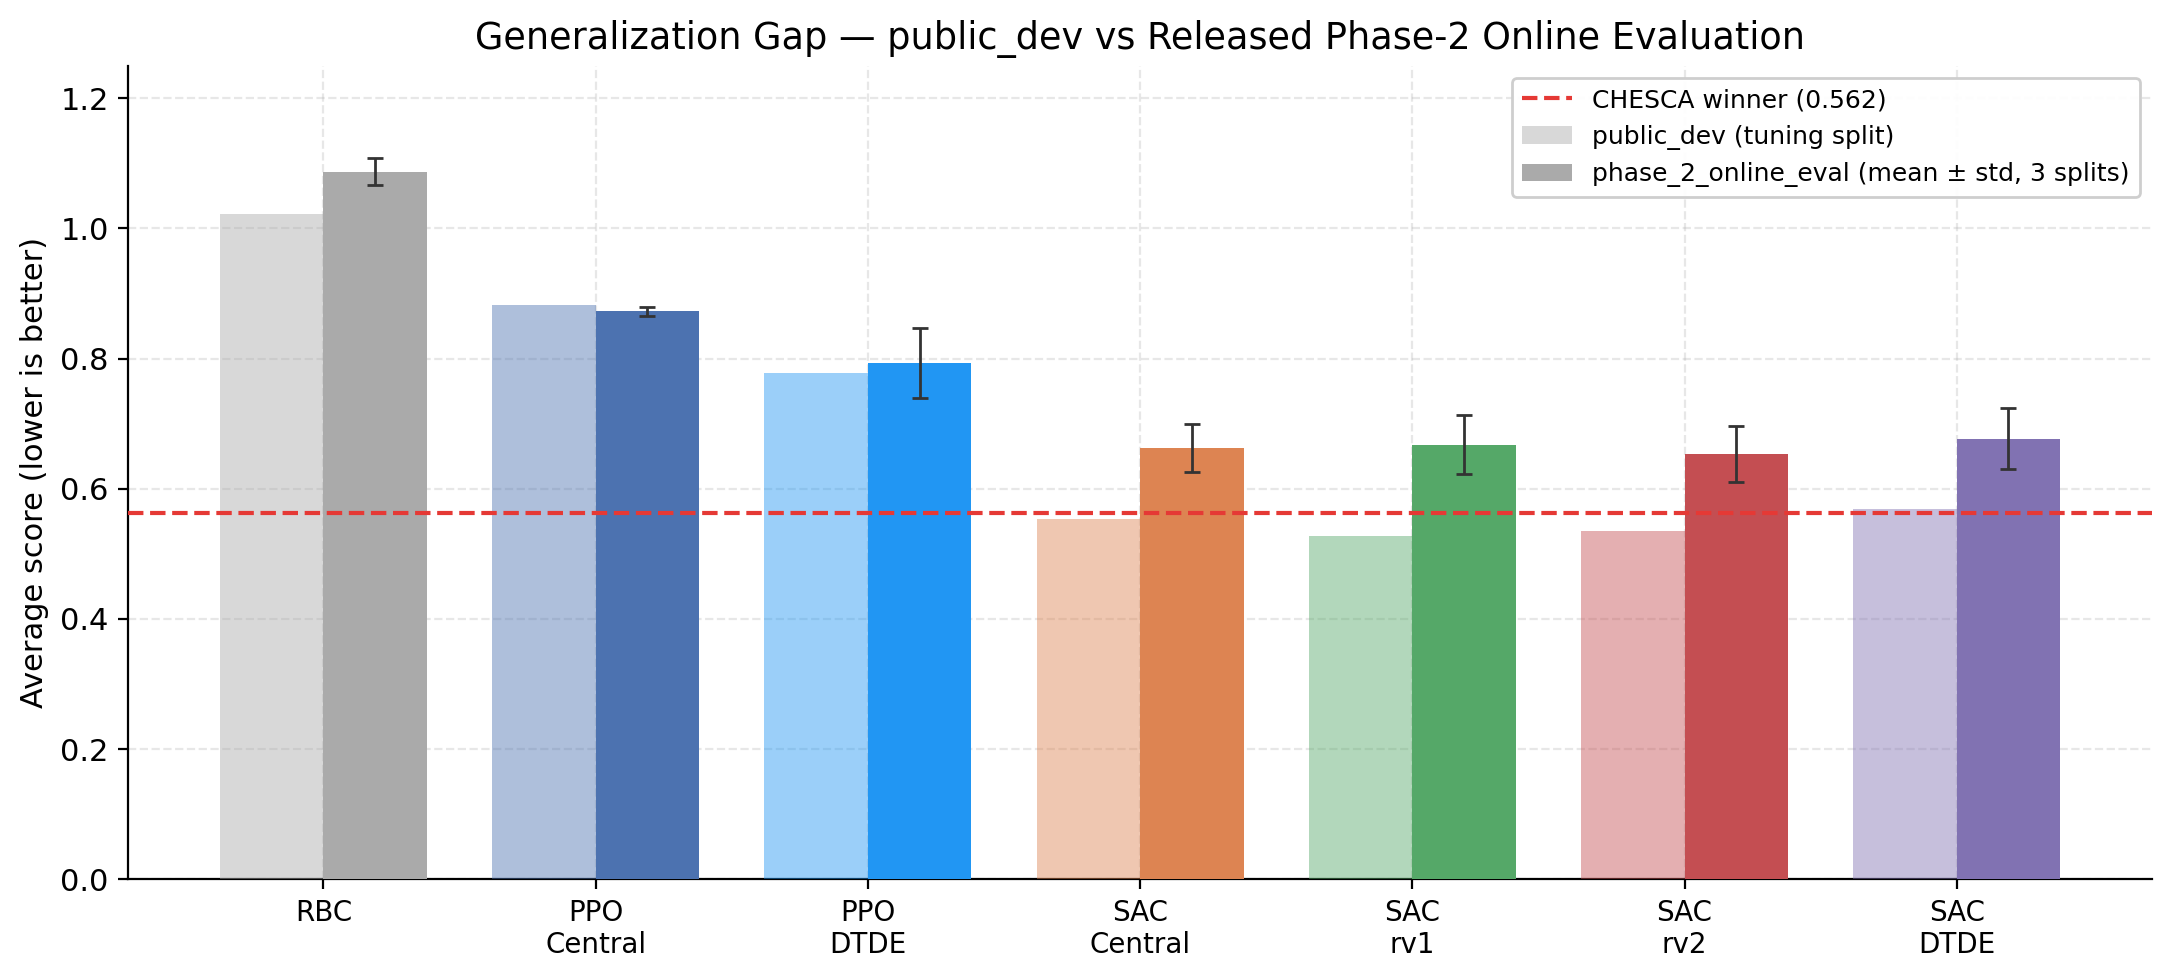
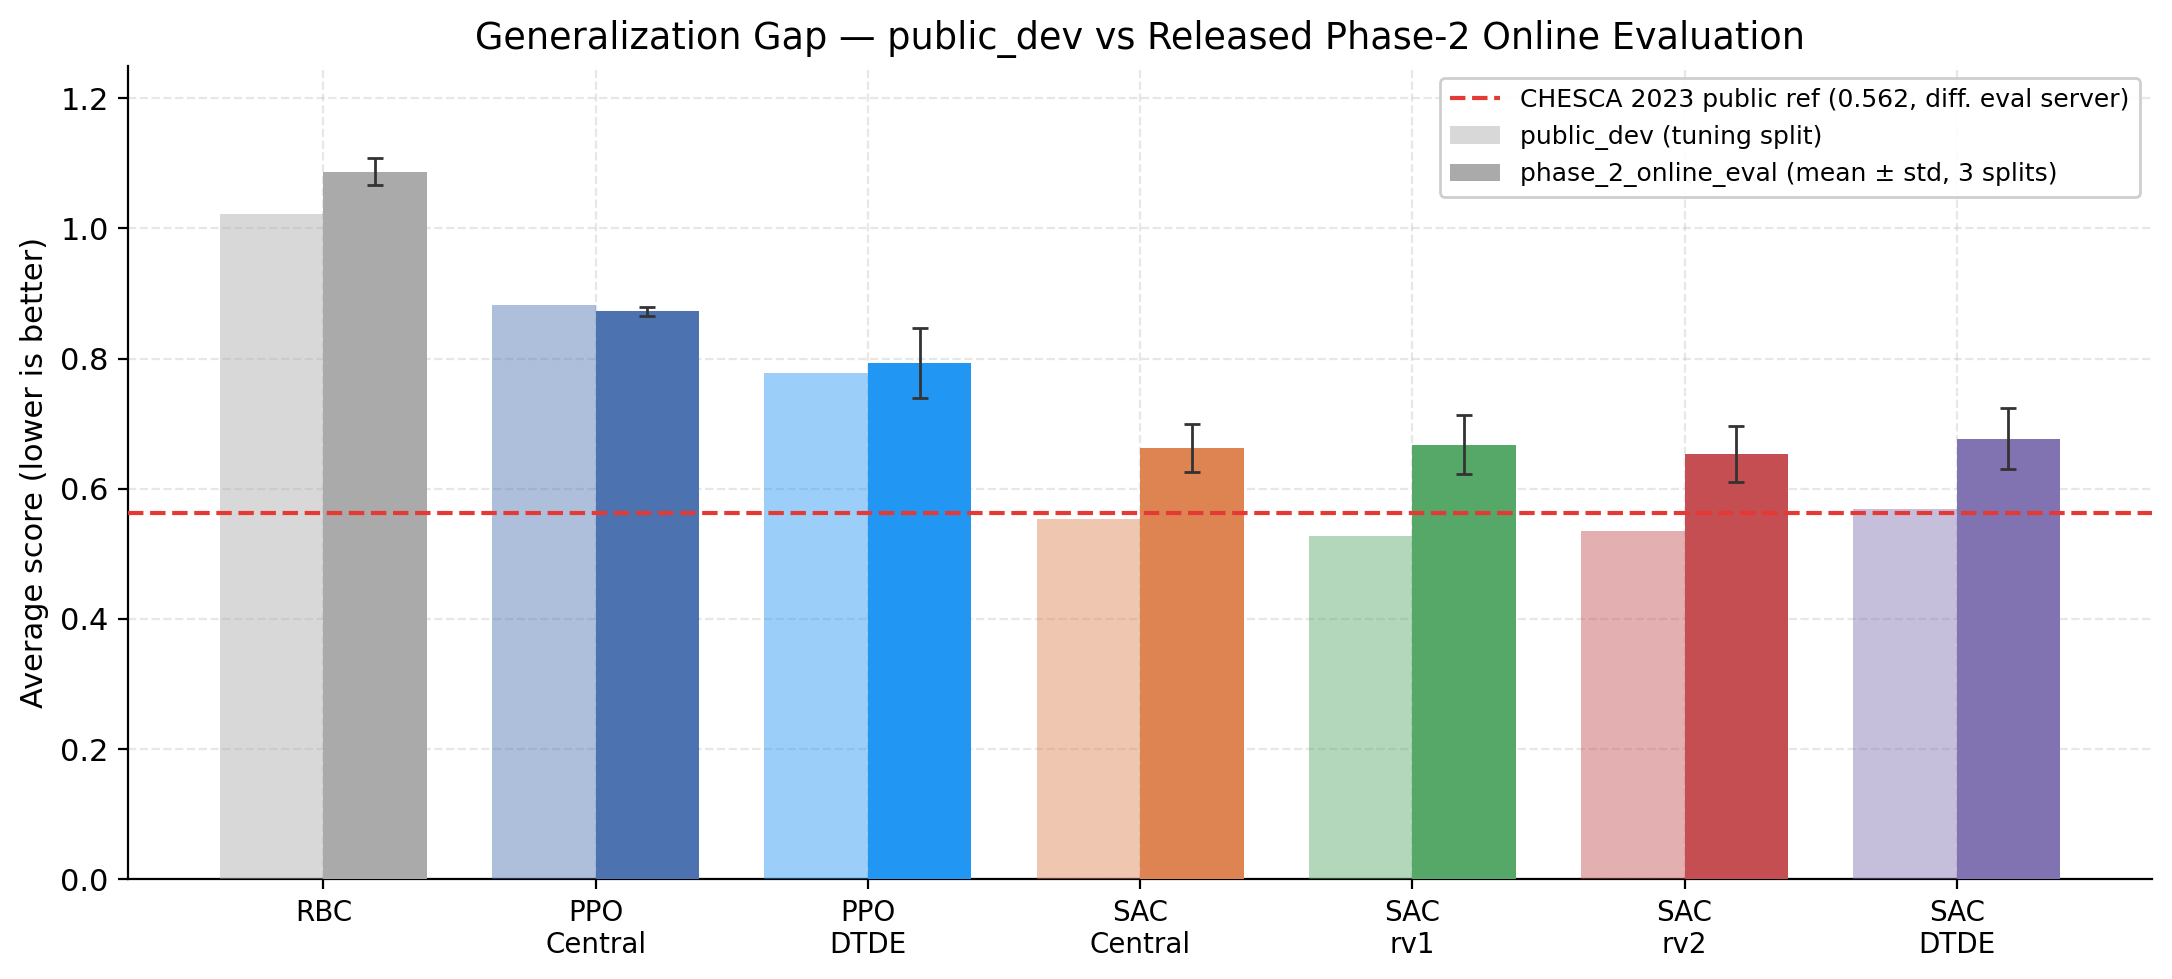
fix(results): reconcile cross-split results and CHESCA caveat

Changed region(s): [[0.6478, 0.0919, 0.9871, 0.2145]]

diff --git a/scripts/analysis/aggregate_ppo_dtde_phase2.py b/scripts/analysis/aggregate_ppo_dtde_phase2.py
@@ -6,12 +6,13 @@ per-split means into submission/results/cross_split_scores.csv for the
 
   * phase_2_online_eval_{1,2,3}: parsed from the latest
     results/eval_phase2_ppo_dtde_*/progress.log. Selects the best-public_dev
-    learning-rate checkpoint per seed (one per seed) before averaging,
-    to match the released phase_3 aggregation methodology (eval_job_count =
-    10 seeds * 3 splits).
-  * phase_3_{1,2,3}: averaged across all results/runs/
-    ppo__ppo_shared_dtde_reward_v2__phase_3_* metrics.json files, matching
-    the naive mean already reported in released_eval_main_results.csv.
+    learning-rate checkpoint per seed (one per seed) before averaging
+    (eval_job_count = 10 seeds * 3 splits).
+  * phase_3_{1,2,3}: averaged across results/runs/
+    ppo__ppo_shared_dtde_reward_v2__phase_3_* metrics.json files, filtered
+    to the same best-public_dev LR per seed via manifest.artifact_id so
+    cross_split_scores.csv stays consistent with the n=30 phase_3 row already
+    reported in released_eval_main_results.csv.
 
 This script also backfills the PPO DTDE reward_v2 phase_2 row into
 submission/results/released_eval_main_results.csv (full stats: mean/std/ci95
@@ -279,26 +280,152 @@ def _patch_released_inventory_csv(new_rows: list[dict[str, str]]) -> None:
     print(f"  updated {RELEASED_INVENTORY_CSV.relative_to(REPO_ROOT)}")
 
 
-def _load_phase3_per_split_means() -> dict[str, float]:
-    """Return {p3_1|p3_2|p3_3: mean_score} for PPO DTDE reward_v2 across
-    all eval runs under results/runs/."""
+def _load_phase3_per_split_means(
+    best_run_ids: set[str] | None = None,
+) -> dict[str, float]:
+    """Return {p3_1|p3_2|p3_3: mean_score} for PPO DTDE reward_v2.
+
+    If ``best_run_ids`` is given, restrict to eval runs whose manifest
+    ``artifact_id`` is in that set (the best-public_dev LR per seed). This
+    matches the selection used for released_eval_main_results.csv and keeps
+    cross_split_scores.csv internally consistent with the released snapshot.
+    Duplicate (split, seed) eval artifacts — accidentally re-run checkpoints
+    — are deduped by keeping the first run directory encountered (sorted by
+    name). NOTE: within the best-LR-per-seed set, the only duplicates we
+    observe are two (phase_3_2 seed9, phase_3_3 seed9) pairs that share the
+    same checkpoint and produce identical scores, so dedupe order does not
+    affect the reported mean. If ``best_run_ids`` is None, average across all
+    phase_3 eval runs (legacy behaviour, kept so the helper works for ad-hoc
+    queries).
+    """
     from collections import defaultdict
-    by_split: dict[str, list[float]] = defaultdict(list)
+    # Map (split, seed) -> first score seen, to dedupe re-run eval artifacts
+    # that share an artifact_id with identical scores.
+    seen: dict[tuple[str, int], float] = {}
     for r in sorted(RUNS_DIR.glob("ppo__ppo_shared_dtde_reward_v2__phase_3_*")):
         mpath = r / "metrics.json"
         if not mpath.exists():
             continue
+        if best_run_ids is not None:
+            manifest_path = r / "manifest.json"
+            if not manifest_path.exists():
+                continue
+            artifact_id = json.loads(manifest_path.read_text()).get("artifact_id")
+            if artifact_id not in best_run_ids:
+                continue
         d = json.loads(mpath.read_text())
         split = d.get("split")
         score = d.get("average_score")
-        if split and score is not None:
-            by_split[split].append(float(score))
+        seed = d.get("seed")
+        if split is None or score is None or seed is None:
+            continue
+        key = (split, int(seed))
+        if key in seen:
+            continue  # keep first occurrence (sorted by name ~= oldest timestamp)
+        seen[key] = float(score)
+
+    by_split: dict[str, list[float]] = defaultdict(list)
+    for (split, _seed), score in seen.items():
+        by_split[split].append(score)
+
     label = {"phase_3_1": "p3_1", "phase_3_2": "p3_2", "phase_3_3": "p3_3"}
     return {
         label[s]: sum(v) / len(v)
         for s, v in by_split.items()
         if s in label
     }
+
+
+# Cross-split row identity for every tracked method. Each entry maps a display
+# label used in cross_split_scores.csv to (algorithm, variant) keys used in
+# released_eval_seed_inventory.csv and to the method_id used for the public_dev
+# column in local_main_results.csv.
+CROSS_SPLIT_METHOD_KEYS: list[tuple[str, str, str, str | None]] = [
+    ("RBC",          "rbc", "basic_rbc",              "local_rbc"),
+    ("PPO Central",  "ppo", "ppo_central_baseline",   "ppo_central_baseline_public_dev"),
+    ("PPO DTDE",     "ppo", "ppo_shared_dtde_reward_v2", "ppo_shared_dtde_reward_v2_public_dev"),
+    ("SAC Central",  "sac", "central_baseline",       "sac_central_baseline_public_dev"),
+    ("SAC rv1",      "sac", "central_reward_v1",      "sac_central_reward_v1_public_dev"),
+    ("SAC rv2",      "sac", "central_reward_v2",      "sac_central_reward_v2_public_dev"),
+    ("SAC DTDE",     "sac", "shared_dtde_reward_v2",  "sac_shared_dtde_reward_v2_public_dev"),
+]
+
+SPLIT_TO_CROSS_COL = {
+    "phase_2_online_eval_1": "p2_eval1",
+    "phase_2_online_eval_2": "p2_eval2",
+    "phase_2_online_eval_3": "p2_eval3",
+    "phase_3_1": "p3_1",
+    "phase_3_2": "p3_2",
+    "phase_3_3": "p3_3",
+}
+
+LOCAL_MAIN_CSV = REPO_ROOT / "submission" / "results" / "local_main_results.csv"
+
+
+def _rebuild_cross_split_from_inventory() -> None:
+    """Regenerate every row of cross_split_scores.csv from the authoritative
+    sources: submission/results/released_eval_seed_inventory.csv (per-split
+    means) and submission/results/local_main_results.csv (public_dev column).
+
+    Preserves the existing fieldnames / row order of cross_split_scores.csv.
+    Any method already present in the file but not listed in
+    ``CROSS_SPLIT_METHOD_KEYS`` is left untouched.
+    """
+    if not RELEASED_INVENTORY_CSV.exists() or not LOCAL_MAIN_CSV.exists():
+        print("  skip cross_split rebuild: inventory or local_main csv missing")
+        return
+
+    inv_rows = list(csv.DictReader(RELEASED_INVENTORY_CSV.open(newline="")))
+    local_rows = {r["method_id"]: r for r in csv.DictReader(LOCAL_MAIN_CSV.open(newline=""))}
+
+    # Group inventory by (algorithm, variant, split) -> list of scores.
+    from collections import defaultdict
+    by_key: dict[tuple[str, str, str], list[float]] = defaultdict(list)
+    for r in inv_rows:
+        try:
+            score = float(r["average_score"])
+        except (KeyError, ValueError):
+            continue
+        by_key[(r["algorithm"], r["variant"], r["split"])].append(score)
+
+    def _per_split_mean(algo: str, variant: str, split: str) -> str:
+        vals = by_key.get((algo, variant, split), [])
+        return f"{sum(vals) / len(vals):.4f}" if vals else ""
+
+    # Walk the existing CSV to preserve fieldnames + ordering.
+    with CROSS_SPLIT_CSV.open(newline="") as f:
+        reader = csv.DictReader(f)
+        fieldnames = list(reader.fieldnames or [])
+        existing = list(reader)
+
+    by_method = {r["method"].strip(): r for r in existing}
+
+    for label, algo, variant, local_method_id in CROSS_SPLIT_METHOD_KEYS:
+        row = by_method.get(label)
+        if row is None:
+            # Row absent from CSV — skip rather than invent new rows.
+            continue
+        # public_dev from local_main_results.csv (if available).
+        if local_method_id and local_method_id in local_rows:
+            mean = local_rows[local_method_id].get("average_score_mean")
+            if mean:
+                row["public_dev"] = f"{float(mean):.4f}"
+        # per-split columns from inventory.
+        for split, col in SPLIT_TO_CROSS_COL.items():
+            if col not in fieldnames:
+                continue
+            value = _per_split_mean(algo, variant, split)
+            if value:
+                row[col] = value
+
+    CROSS_SPLIT_CSV.write_text(
+        ",".join(fieldnames) + "\n"
+        + "".join(
+            ",".join(row.get(f, "") for f in fieldnames) + "\n"
+            for row in existing
+        )
+    )
+    print(f"  rebuilt {CROSS_SPLIT_CSV.relative_to(REPO_ROOT)} from inventory")
 
 
 def main() -> None:
@@ -347,10 +474,12 @@ def main() -> None:
         new_row[col] = f"{mean:.4f}"
         print(f"    {split}: mean={mean:.4f} n={len(scores)}")
 
-    # 3b) Phase_3 per-split means from raw run metrics.
-    phase3 = _load_phase3_per_split_means()
+    # 3b) Phase_3 per-split means from raw run metrics, filtered to the same
+    #     best-public_dev LR per seed used above so cross_split_scores.csv
+    #     matches released_eval_main_results.csv (n=30 = 10 seeds * 3 splits).
+    phase3 = _load_phase3_per_split_means(best_run_ids=best_run_ids)
     if phase3:
-        print("\n  phase_3 per-split results (all-runs mean):")
+        print("\n  phase_3 per-split results (best-lr-per-seed):")
         for col in ("p3_1", "p3_2", "p3_3"):
             if col in phase3:
                 new_row[col] = f"{phase3[col]:.4f}"
@@ -391,6 +520,12 @@ def main() -> None:
     )
     _patch_released_main_csv(main_row)
     _patch_released_inventory_csv(inventory_rows)
+
+    # 6) Rebuild ALL rows of cross_split_scores.csv from the now-up-to-date
+    #    inventory + local_main_results.csv so every method (not just PPO DTDE)
+    #    stays consistent with the authoritative per-seed eval data.
+    print()
+    _rebuild_cross_split_from_inventory()
 
 
 if __name__ == "__main__":

diff --git a/scripts/analysis/build_deck.py b/scripts/analysis/build_deck.py
@@ -231,7 +231,7 @@ def _add_results_numbers_block(slide) -> None:
         ]),
         ("phase_3 (6 buildings, held-out — portable only)", [
             ("RBC", "1.114"),
-            ("PPO DTDE", "0.848"),
+            ("PPO DTDE", "0.843"),
             ("SAC DTDE", "0.774", True),
         ]),
     ]
@@ -535,10 +535,11 @@ def build_presentation() -> Path:
         s7,
         "The headline panel is the held-out phase_2_online_eval split — same "
         "3-building setup as training but weather and demand the agent has never "
-        "seen. RBC sits at 1.09, PPO central at 0.87, SAC variants cluster at "
-        "0.65-0.68. The dashed line at 0.562 is CHESCA's 2023 public-leaderboard "
-        "score — benchmark context, not a head-to-head number, because CHESCA "
-        "was scored on the original competition server we cannot re-run.\n\n"
+        "seen. RBC sits at 1.09, PPO central at 0.87, PPO-DTDE at 0.79, and SAC "
+        "variants cluster at 0.65-0.68. The dashed line at 0.562 is CHESCA's "
+        "2023 public-leaderboard score — benchmark context, not a head-to-head "
+        "number, because CHESCA was scored on the original competition server "
+        "we cannot re-run.\n\n"
         "The harder test is phase_3 — held-out AND a different 6-building "
         "cluster, not the 3 we trained on. Only the shared-DTDE variants can "
         "execute here: a centralized policy's input and output layers are wired "

diff --git a/scripts/analysis/make_figures.py b/scripts/analysis/make_figures.py
@@ -274,7 +274,8 @@ def plot_per_split_scores() -> None:
 
         ax.axhline(
             CHESCA_SCORE, color="#e53935", linewidth=1.6, linestyle="--",
-            label=f"CHESCA ({CHESCA_SCORE:.3f})", zorder=3,
+            label=f"CHESCA 2023 public ref ({CHESCA_SCORE:.3f}, diff. eval server)",
+            zorder=3,
         )
 
         ax.text(
@@ -422,7 +423,8 @@ def plot_generalization_gap(rows: dict[str, dict]) -> None:
         )
         ax.axhline(
             CHESCA_SCORE, color="#e53935", linewidth=1.5, linestyle="--",
-            label=f"CHESCA winner ({CHESCA_SCORE:.3f})", zorder=4,
+            label=f"CHESCA 2023 public ref ({CHESCA_SCORE:.3f}, diff. eval server)",
+            zorder=4,
         )
 
         ax.set_xticks(x)

diff --git a/submission/presentation_outline.md b/submission/presentation_outline.md
@@ -106,13 +106,13 @@ On `phase_2_online_eval` (3 buildings, held-out, mean over 3 splits):
 
 On `phase_3` (6 buildings, held-out — only portable methods):
 - RBC baseline: 1.114
-- PPO DTDE: 0.848
+- PPO DTDE: 0.843
 - **SAC DTDE: 0.774 (best)**
 
 **Speaker notes (Rubric Q5: "Key components + results + limitations"):**
 > The headline panel is the held-out `phase_2_online_eval` split — same 3-building setup as training but weather and demand the agent has never seen. RBC sits at 1.09, PPO central at 0.87, PPO-DTDE at 0.79, SAC variants cluster at 0.65-0.68. The dashed line at 0.562 is CHESCA's 2023 public-leaderboard score — benchmark context, not a head-to-head number, because CHESCA was scored on the original competition server we cannot re-run.
 >
-> The harder test is `phase_3` — held-out AND a different 6-building cluster, not the 3 we trained on. Only the shared-DTDE variants can execute here: a centralized policy's input and output layers are wired for exactly 3 buildings, so feeding it a 6-building observation is a shape mismatch, not a degradation. SAC-DTDE generalizes best at 0.774, PPO-DTDE at 0.848. This is our cleanest architectural claim: **if deployment might see a different building count than training, choose shared-DTDE**.
+> The harder test is `phase_3` — held-out AND a different 6-building cluster, not the 3 we trained on. Only the shared-DTDE variants can execute here: a centralized policy's input and output layers are wired for exactly 3 buildings, so feeding it a 6-building observation is a shape mismatch, not a degradation. SAC-DTDE generalizes best at 0.774, PPO-DTDE at 0.843. This is our cleanest architectural claim: **if deployment might see a different building count than training, choose shared-DTDE**.
 >
 > Limitations: single `public_dev` tuning split was used to select reward variants (overfitting risk); compute-bound so we capped PPO-DTDE and SAC-DTDE at 10 and 3 seeds respectively; reward-variant ablation was run only on SAC-central, not on PPO-central. CHESCA's line is reference, not a competitive bar we're claiming to have cleared.
 
@@ -120,7 +120,7 @@ On `phase_3` (6 buildings, held-out — only portable methods):
 
 ## Figure caption (for PowerPoint / Slides paste — Rubric §2)
 
-> **Figure.** CityLearn 2023 Track-3 `average_score` (↓ better) across six released held-out evaluation datasets: three `phase_2_online_eval` splits (left, same 3-building setup as training) and three `phase_3` splits (right, six-building cluster, shaded). Each line is one method: rule-based control (grey), PPO centralized (blue), three SAC centralized reward variants (orange/green/red), and SAC shared-DTDE (purple). The dashed red reference line at 0.562 is CHESCA's 2023 public-leaderboard score, shown as benchmark context (not same eval). **Takeaways**: (1) on `phase_2` (3 buildings), all SAC variants cluster around 0.65-0.68 and PPO-central around 0.87 — RL reduces the RBC score of ~1.09 by 30-40 % on held-out data. (2) On `phase_3` (6 buildings), only shared-DTDE policies can run; SAC-DTDE is the best portable variant at 0.774. Centralized policies are architecturally non-portable to a different building count, which is the headline architectural trade-off.
+> **Figure.** CityLearn 2023 Track-3 `average_score` (↓ better) across six released held-out evaluation datasets: three `phase_2_online_eval` splits (left, same 3-building setup as training) and three `phase_3` splits (right, six-building cluster, shaded). Each line is one method: rule-based control (grey), PPO centralized (dark blue), PPO shared-DTDE (light blue), three SAC centralized reward variants (orange/green/red), and SAC shared-DTDE (purple). The dashed red reference line at 0.562 is CHESCA's 2023 public-leaderboard score, shown as benchmark context (not same eval). **Takeaways**: (1) on `phase_2` (3 buildings), all SAC variants cluster around 0.65-0.68, PPO-DTDE around 0.79, and PPO-central around 0.87 — RL reduces the RBC score of ~1.09 by 30-40 % on held-out data. (2) On `phase_3` (6 buildings), only the shared-DTDE policies can run; SAC-DTDE is the best portable variant at 0.774, ahead of PPO-DTDE at 0.843. Centralized policies are architecturally non-portable to a different building count, which is the headline architectural trade-off.
 
 ---
 